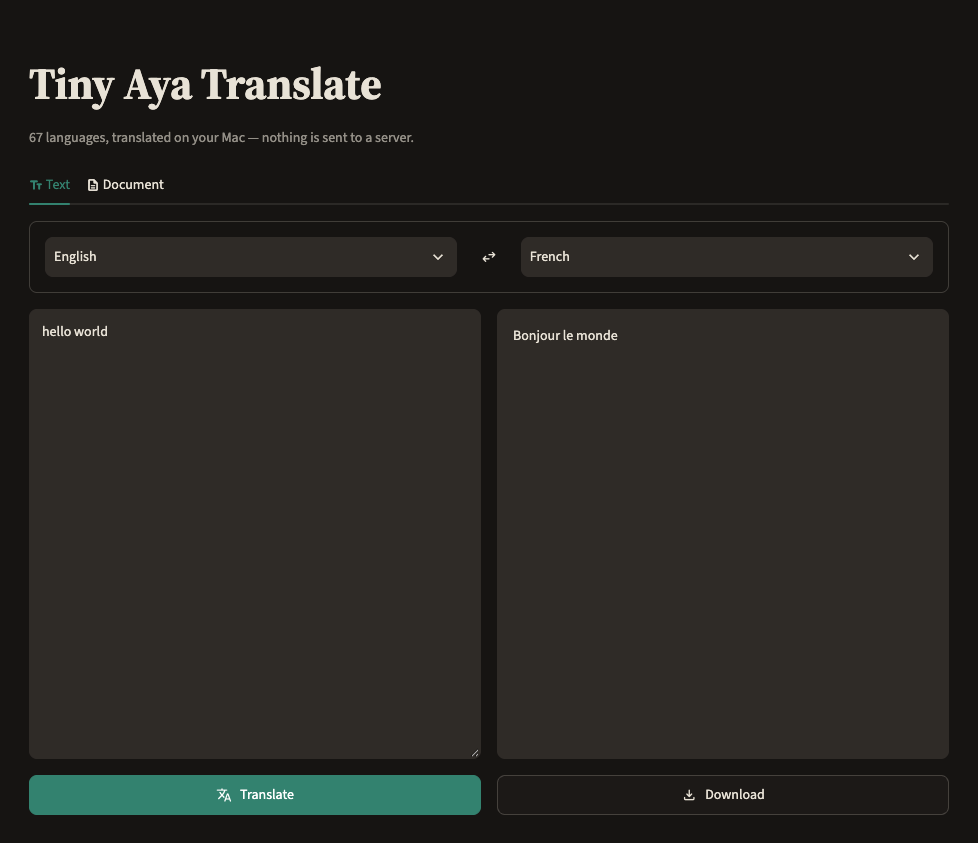
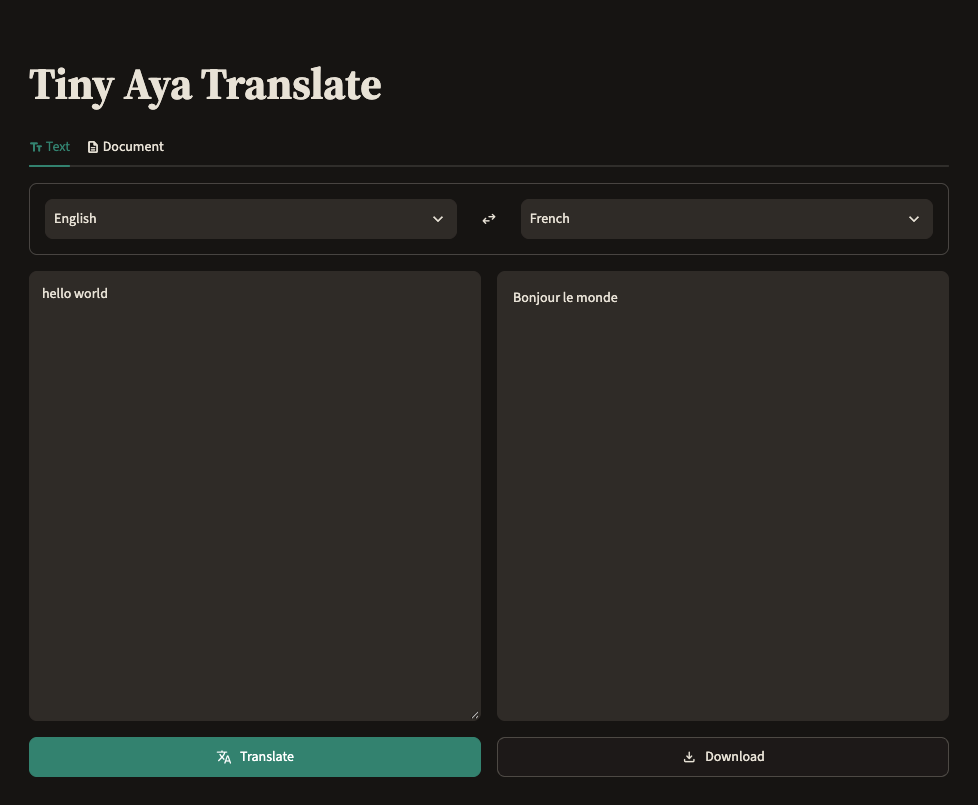
docs: regenerate the README hero without the subtitle it was still advertising
The hero image was the last surface on the branch still showing "nothing is
sent to a server", four lines above the README paragraph that retracts it.
Reshot 2026-09-12 at 978x805 (was 978x843): same frame rule as before --
38px above the h1 box, 28px below the buttons, ~29px side margins around
the 920px content -- so the height simply follows the layout, and the tab
strip sits 38px higher where the caption used to be.

Pixels sampled before saving, per the recipe: the extension returned a
capture tagged Google/Skia that read #161413 / #2a2623 / #1d7764, converted
through the embedded profile to sRGB, after which page, both panels and the
Translate fill land byte-exact (#161412 / #2f2b27 / #33826f) under all four
rendering intents. The 2026-09-11 capture had come back untagged and exact,
so CLAUDE.md now records that which case you get is not stable between runs.

Two new traps recorded in the Screenshots section: the extension may put its
tab into an existing user window rather than its own, so an AppleScript that
matches a window by URL can move the wrong one -- list windows by id first;
and a background tab neither receives typed input nor re-lays-out nor runs
timers at full rate, so take one screenshot to activate it before driving it.
Also that 8502 was occupied by a ten-hour-old fallen-through server, the
recipe's own warning in action, and the capture ran on 8503.

Claude-Session: https://claude.ai/code/session_01U9Tj4rWVe56BUJ5aExMHj2

diff --git a/CLAUDE.md b/CLAUDE.md
@@ -79,20 +79,20 @@ When working with Python, invoke the relevant `/astral:<skill>` for uv, ty, and 
 
 ## Screenshots
 
-`assets/screenshot.png` is the README hero image: the Text tab in dark mode, English → French, `hello world` → `Bonjour le monde`. Regenerated 2026-09-11 at 978×843 for the Reading Room theme (the 2026-08-08 design-pass capture was 978×833 under stock) — it shows both tab icons, the centred swap, the settled output as full-contrast `st.code` set in Source Sans (the theme's `codeFont`; it is **not monospace** any more, so do not read the sans output as a regression), and icons on Translate/Download. Content width is 920px with ~29px side margins, the h1 box top 38px below the image top and 28px of image below the buttons. Nothing is focused in it. **It is stale as of 2026-09-12**: it still shows the one-line subtitle caption under the title, which was removed that day (see Page chrome); regenerate it, and drop this sentence when you do. The caption occupies rows 131–145 of the PNG between the h1 (ends 109) and the tabs (179), so with its 16px block gap it accounts for ~38px of the 843 height — the `~830px` hero-framing figure in the main-display bullet below becomes ~792px, still over the 783px viewport but by ~9px rather than ~47px, so re-check whether the main display can frame it before reaching for the portrait display. Regenerate it whenever the theme or that tab's layout changes. It is **binary, so nothing in CI can catch it going stale** — it silently advertised the removed Nord theme until pixels were sampled and colour-managed. Expect the PNG to read warm and brown-tinted against GitHub's cool `#0d1117` README ground: that is the palette, not a colour-management fault. Every trap below produces a plausible-looking but wrong image, which is why they are worth writing down.
+`assets/screenshot.png` is the README hero image: the Text tab in dark mode, English → French, `hello world` → `Bonjour le monde`. Regenerated 2026-09-12 at **978×805** after the subtitle's removal (the 2026-09-11 Reading Room capture was 978×843 with the caption in it; the 2026-08-08 design-pass capture 978×833 under stock) — it shows the serif title with nothing under it, both tab icons, the centred swap, the settled output as full-contrast `st.code` set in Source Sans (the theme's `codeFont`; it is **not monospace** any more, so do not read the sans output as a regression), and icons on Translate/Download. Content width is 920px with ~29px side margins, the h1 box top 38px below the image top and 28px of image below the buttons. Nothing is focused in it. The frame is `[h1.top − 38, buttons.bottom + 28]` vertically and `[content.left − 29, content.right + 29]` horizontally, read off `getBoundingClientRect` at capture time — in the 1080-wide viewport that was `[51, 58, 1029, 863]` — so the height follows the layout: the caption's removal took the tab strip from row 179 to 141 and the image from 843 to 805. Regenerate it whenever the theme or that tab's layout changes. It is **binary, so nothing in CI can catch it going stale** — it silently advertised the removed Nord theme until pixels were sampled and colour-managed. Expect the PNG to read warm and brown-tinted against GitHub's cool `#0d1117` README ground: that is the palette, not a colour-management fault. Every trap below produces a plausible-looking but wrong image, which is why they are worth writing down.
 
-- Serve it on a **free port**: `uv run streamlit run streamlit_app.py --server.port 8502 --server.headless true`. 8501 on this machine is usually another project's app, and Streamlit will happily start on a different port without saying so loudly. Note that `--server.headless true` is the one flag that makes the *server* reach out: `bootstrap.py` calls `net_util.get_external_ip()` (a GET to `checkip.amazonaws.com`) to print the "External URL" line, only in headless mode — the documented run command does not pass it, so a user's launch makes no such request
+- Serve it on a **free port**: `uv run streamlit run streamlit_app.py --server.port 8502 --server.headless true`. 8501 on this machine is usually another project's app, and Streamlit will happily start on a different port without saying so loudly — on 2026-09-12 that is exactly what occupied 8502: a ten-hour-old `streamlit run streamlit_app.py` with no `--server.port`, fallen through from a busy 8501, so the capture ran on 8503. Check with `lsof -nP -iTCP:<port> -sTCP:LISTEN` and take the next free one rather than killing what is there. Note that `--server.headless true` is the one flag that makes the *server* reach out: `bootstrap.py` calls `net_util.get_external_ip()` (a GET to `checkip.amazonaws.com`) to print the "External URL" line, only in headless mode — the documented run command does not pass it, so a user's launch makes no such request
 - The shot needs a **real translation**, not an empty app — but the old reason for saying so is gone. It used to be that the output `text_area` was `disabled=True`, so genuine output rendered in the same muted grey as placeholder text; settled output now goes through `render_output`/`st.code` and reads at full contrast, and the empty-state placeholder is `Translation appears here`. Weights are already in `~/.cache/huggingface` (~3.6 GB — `du -sh` prints `3.3G` because it reports GiB; the rest of the repo quotes 3.6 GB and that is the same number), so the Translate click costs seconds rather than a download
 - **Move the pointer off the button before capturing — and off the page content altogether.** Clicking Translate leaves the cursor hovering it, and Streamlit's primary hover is darken-15% of the primary (the hex and its ratios are in `config.toml`'s ACCENT block; under stock it was `rgb(255,0,0)` against `rgb(255,75,75)`). It matters more now than it did: the hovered fill sinks toward the dark page rather than lighting, so a hovered Translate reads *pressed-in*, and a baked-in hover state reads as a deliberate colour choice, not a mistake. Verify with `getComputedStyle(btn).backgroundColor`, not by eye. The **cursor itself is rendered into captures** — a first attempt on 2026-09-11 had it sitting over the output panel — so park it at the far bottom-right of the viewport, outside the region being captured, not merely off the button
 - Hide the Streamlit toolbar (`[data-testid="stToolbar"]`, plus `stDecoration`/`stStatusWidget`) by setting `display:none` from the page, and **re-hide after every rerun** — a translation rebuilds the DOM and brings it back
 - macOS `screencapture` **does not work from this environment** — `could not create image from rect` for every region *and* every `-D` display, because the process has no Screen Recording permission and only the user can grant it. Do not burn time debugging the rect; use the Chrome extension
 - The Chrome `computer` **`screenshot`** action downsamples (a 1080px-wide viewport returned 883px for the 2026-08 capture and 875px on 2026-09-11 — the factor is not fixed, so read it off the returned frame each time; it was 1.234 this time), while the **`zoom`** action re-renders its region at *native* resolution. `zoom`'s `region` is expressed in the **downsampled screenshot's** coordinate space, not viewport space — scale viewport coords by the downsample factor first. Out-of-range values fail with a message that misleadingly quotes the viewport size, which sends you looking in the wrong place
-- **The main display cannot frame the shot.** The 1920×1080 display gives at most a 783px-tall viewport once the Dock and Chrome's own UI are subtracted (the window clamps at 960px tall), and the hero framing needs ~830px. The 2026-09-11 capture moved the window to the portrait 1080×1920 display with AppleScript — `tell application "Google Chrome" to set bounds of window N to {...}` — captured at a 1080×1693 viewport, and moved it back. Resizing in place on the main display cannot get there; do not try to shrink the framing instead
-- **Sample the pixels first; convert only if they are off.** The gate is the byte-exact check, not the presence of a profile: open the capture with PIL and read the page (`#161412`), both panels (`#2f2b27`) and the Translate fill (`#33826f`, sampled at the fill, not the glyph). If they match, save as-is. If they are off, the capture is in display space and needs `PIL.ImageCms.profileToProfile(img, src, ImageCms.createProfile("sRGB"))` — with `src` the embedded profile when `im.info.get('icc_profile')` has one, and the display's own profile when the PNG is untagged — the `<Display>-<UUID>.icc` under `/Library/ColorSync/Profiles/Displays/` (ColorSync Utility → Devices shows which one is current; `system_profiler SPDisplaysDataType` only names the display, and a display can have more than one file there), because Chrome can return display-space pixels *without* tagging them on a wide-gamut screen. An untagged capture is therefore not evidence of sRGB, and converting an already-exact image against a display profile would be just as wrong. History: the 2026-08 capture was tagged with Chrome's `Google/Skia/…` profile and read `#101216` against the configured `#0e1117` until converted, after which the neutrals landed byte-exact and the saturated primary clipped ~4% (`#ff4b4b` → `#f54b4c`) **identically under all four rendering intents** — that residue was the red sitting *outside the display gamut*, not a floor of the round trip; `#33826f` is in gamut. The 2026-09-11 capture came back untagged and already byte-exact, so no conversion ran. The saved PNG carries an sRGB profile either way, embedded on save
+- **The main display cannot frame the shot.** The 1920×1080 display gives at most a 783px-tall viewport once the Dock and Chrome's own UI are subtracted (the window clamps at 960px tall), and the hero framing needs ~805px without the caption (~843 with it). The 2026-09-11 capture moved the window to the portrait 1080×1920 display with AppleScript — `tell application "Google Chrome" to set bounds of window N to {...}` — captured at a 1080×1693 viewport, and moved it back. Resizing in place on the main display cannot get there; do not try to shrink the framing instead. **Find the right window before moving anything.** The Chrome extension does not reliably open its own window: on 2026-09-12 `tabs_context_mcp(createIfEmpty)` put its tab into whichever of the user's windows was frontmost, as a tab group, and an AppleScript that matched a window by its `localhost:<port>` tab grabbed the user's *main* browsing window (which also had such a tab) and relocated it. List every window with `id`, `bounds` and `URL of active tab` first, and address the target by `id`. The second attempt landed in a window already sitting on the left portrait display (`{-1080, 30, 0, 1830}`, a 1080×1679 viewport), so no move was needed at all. Either way the tab is a **background tab** in someone else's window until something activates it, and a background tab neither receives the extension's keystrokes (`hello world` typed into a hidden tab left the textarea empty) nor re-lays-out (`innerWidth` reported the old window's 1920 after the move) nor runs timers at full rate (a JS `await` loop waiting for the translation timed out at 45 s). Take one `screenshot` first — that activates the tab — then click and type; poll state with one-shot JS calls, not loops
+- **Sample the pixels first; convert only if they are off.** The gate is the byte-exact check, not the presence of a profile: open the capture with PIL and read the page (`#161412`), both panels (`#2f2b27`) and the Translate fill (`#33826f`, sampled at the fill, not the glyph). If they match, save as-is. If they are off, the capture is in display space and needs `PIL.ImageCms.profileToProfile(img, src, ImageCms.createProfile("sRGB"))` — with `src` the embedded profile when `im.info.get('icc_profile')` has one, and the display's own profile when the PNG is untagged — the `<Display>-<UUID>.icc` under `/Library/ColorSync/Profiles/Displays/` (ColorSync Utility → Devices shows which one is current; `system_profiler SPDisplaysDataType` only names the display, and a display can have more than one file there), because Chrome can return display-space pixels *without* tagging them on a wide-gamut screen. An untagged capture is therefore not evidence of sRGB, and converting an already-exact image against a display profile would be just as wrong. History: the 2026-08 capture was tagged with Chrome's `Google/Skia/…` profile and read `#101216` against the configured `#0e1117` until converted, after which the neutrals landed byte-exact and the saturated primary clipped ~4% (`#ff4b4b` → `#f54b4c`) **identically under all four rendering intents** — that residue was the red sitting *outside the display gamut*, not a floor of the round trip; `#33826f` is in gamut. The 2026-09-11 capture came back untagged and already byte-exact, so no conversion ran; the 2026-09-12 capture from the same extension came back **tagged `Google/Skia/…` again** and read `#161413` / `#2a2623` / `#1d7764` until converted, after which all six samples landed byte-exact under all four intents — so which case you get is not stable between runs, and the sample-first rule is the only safe one. The saved PNG carries an sRGB profile either way, embedded on save
 - Sample the *fill*, not the centre, when spot-checking a button — dead centre is the label glyph, and white-on-fill anti-aliasing returns a washed-out tint (a pink, under stock's red) that looks like a colour bug
 - Pin the theme before capturing: `localStorage.setItem('stActiveTheme-/-v2', '"Dark"')` then reload. The key is versioned (`-v2`), and leaving it at `"System"` means an OS appearance change mid-session silently reshoots in light
 - Buttons now carry icons, so `button.innerText` is `"translate|Translate"` — selecting a button by its label text fails. Use the key-derived class Streamlit emits, `.st-key-translate button`
-- The 2026-09-11 regeneration confirmed the checks worth keeping, with the values they now take: the neutrals land **byte-exact** (`#161412` page, `#2f2b27` both panels) and so does the button fill, `#33826f` sampled at the fill rather than the glyph, with **zero clip residue**. Under stock the same checks read `#0e1117` / `#262730` after the sRGB conversion, and the primary clipped to `#f54b4c`. Both panels reading the same value is also a live check on the `codeBackgroundColor` pin — the input `text_area` and the output `st.code` are the same shade side by side, which is the whole point of it — and the sans output panel is the live check on `codeFont`
+- The 2026-09-11 and 2026-09-12 regenerations confirmed the checks worth keeping, with the values they now take: the neutrals land **byte-exact** (`#161412` page, `#2f2b27` both panels) and so does the button fill, `#33826f` sampled at the fill rather than the glyph, with **zero clip residue**. Under stock the same checks read `#0e1117` / `#262730` after the sRGB conversion, and the primary clipped to `#f54b4c`. Both panels reading the same value is also a live check on the `codeBackgroundColor` pin — the input `text_area` and the output `st.code` are the same shade side by side, which is the whole point of it — and the sans output panel is the live check on `codeFont`
 
 ## Conventions
 
